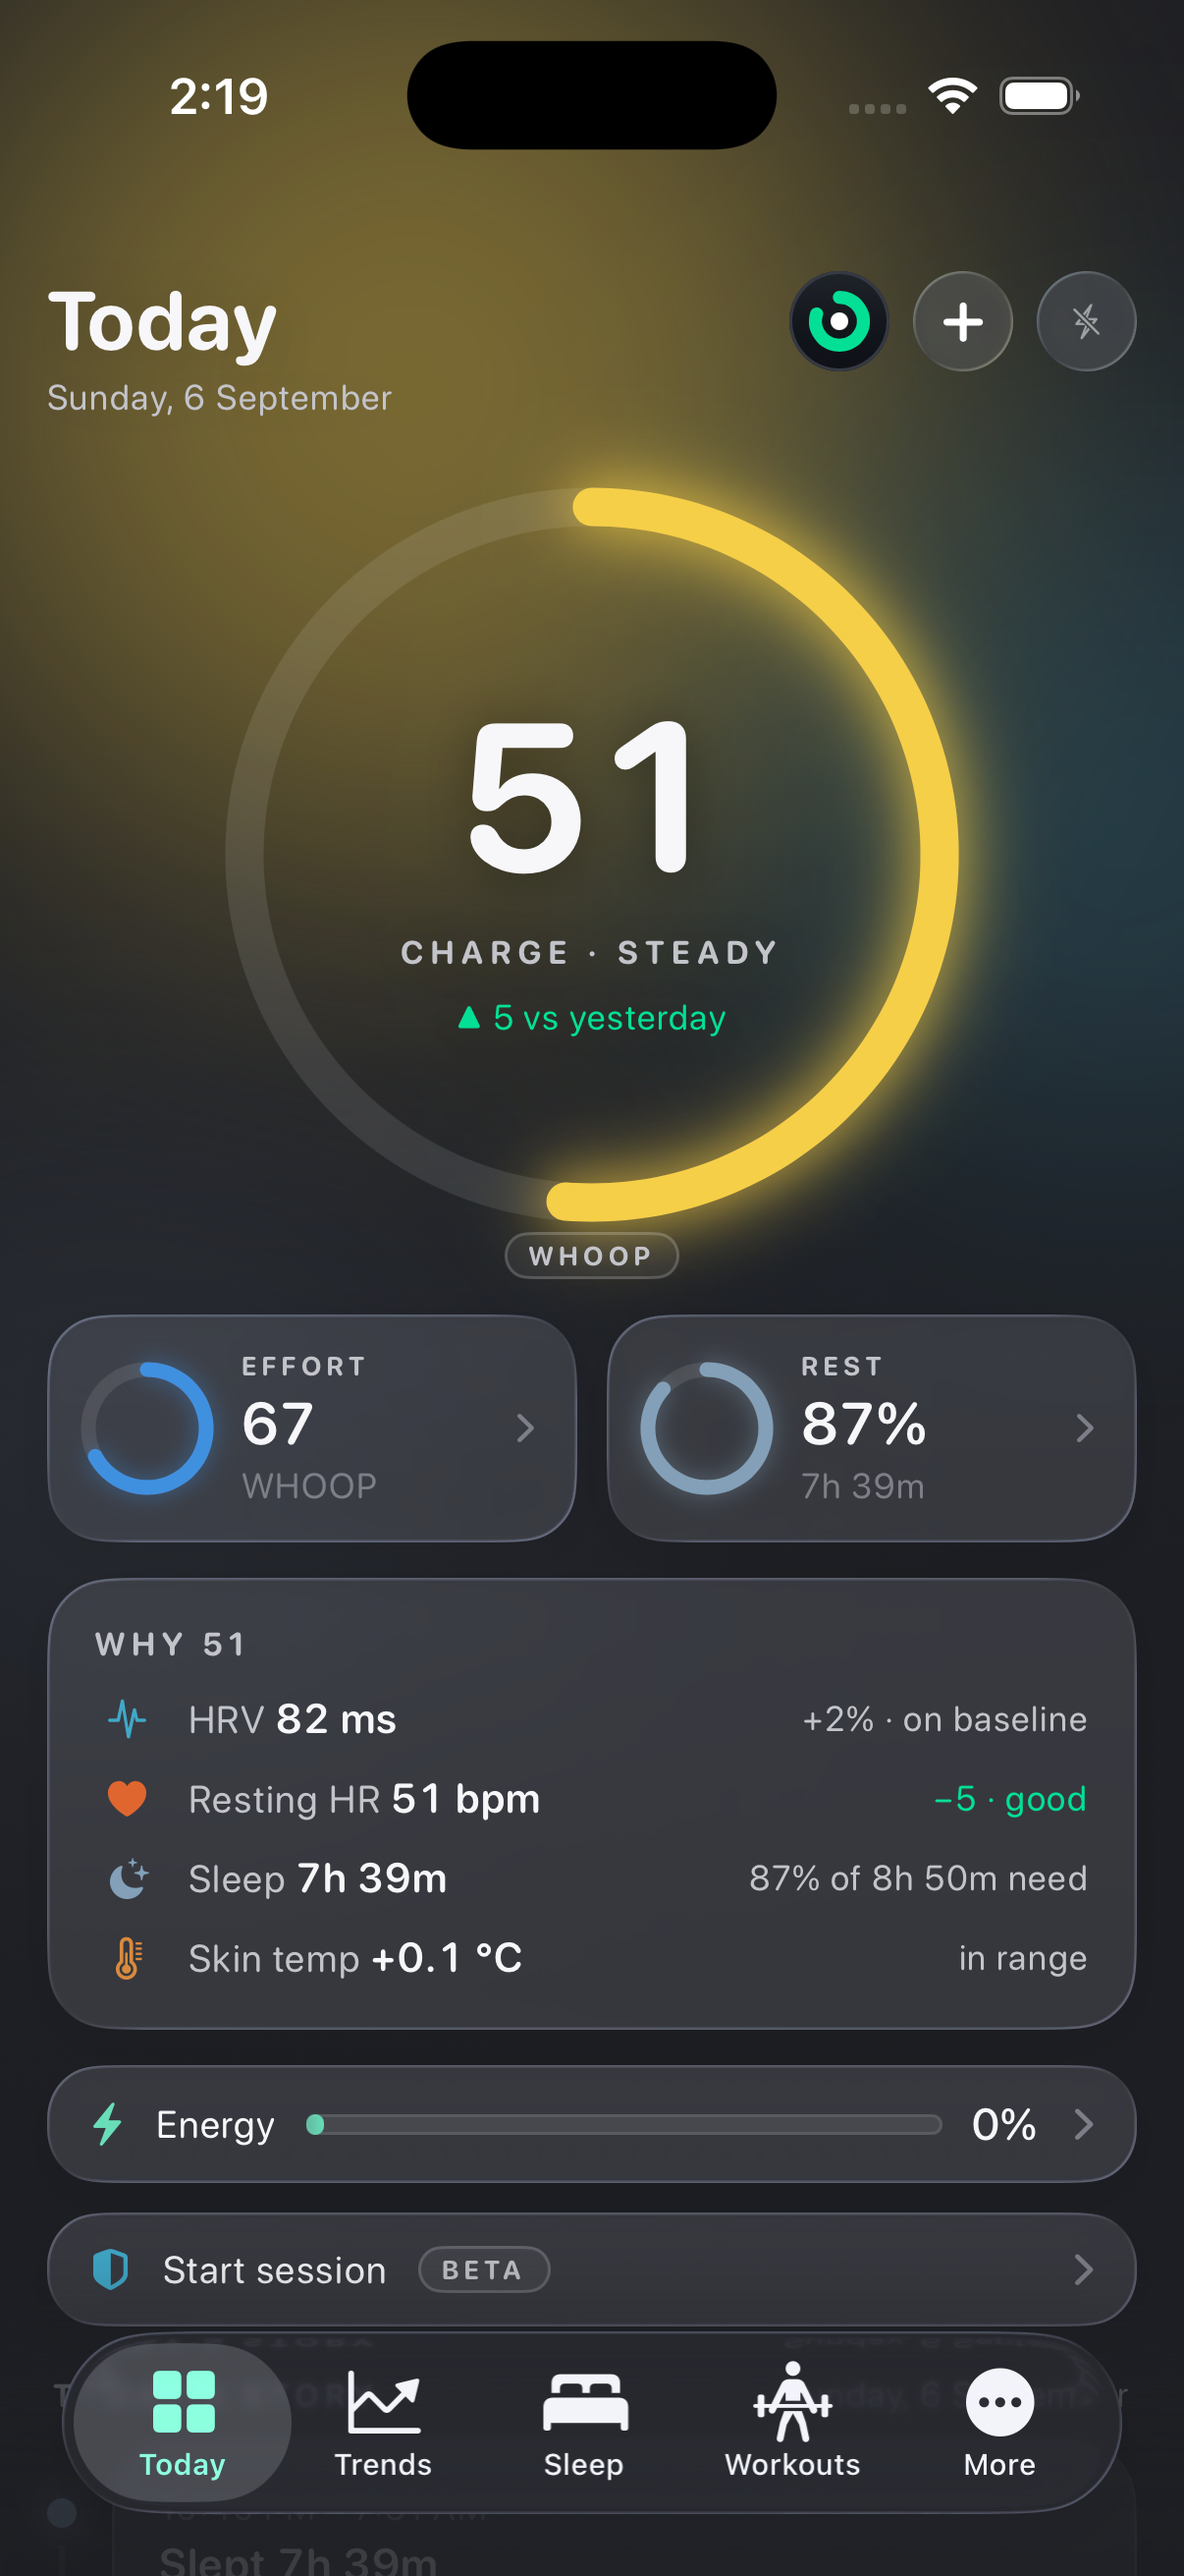
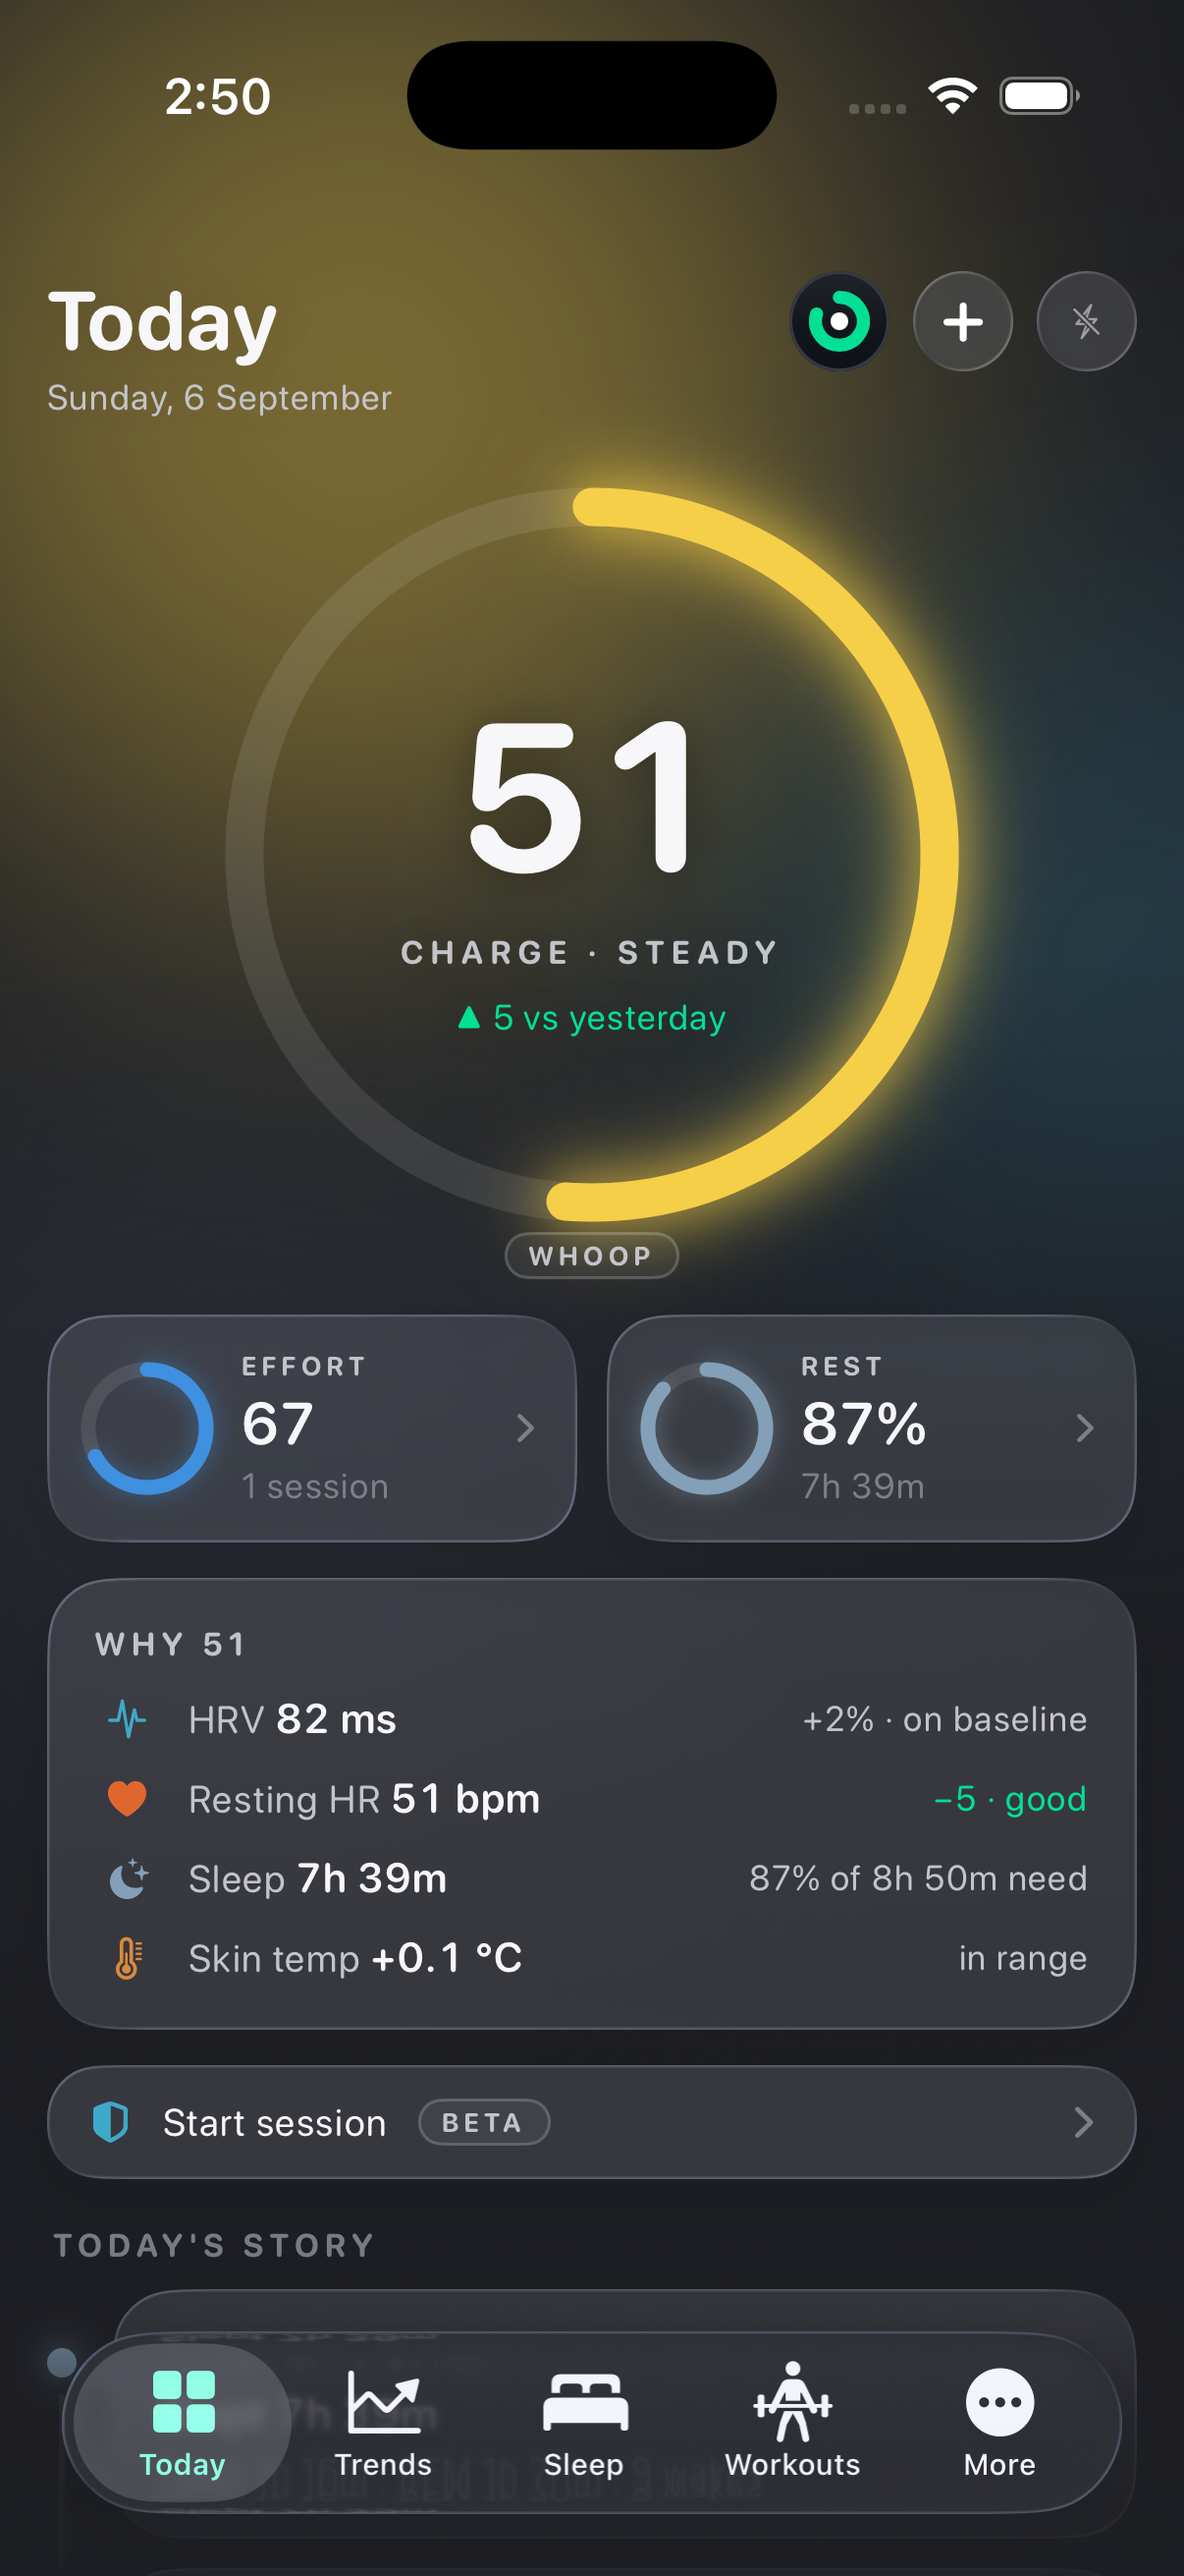
Halo v2 screenshots

diff --git a/halo-build/index.html b/halo-build/index.html
@@ -3,8 +3,8 @@
 <h1>Halo Today — real build, simulator, demo data</h1>
 <p>Debug build of the Kineva iOS app on the iPhone 17 Pro simulator, launched with <code>--demo-seed</code> (the app's own deterministic 120-day synthetic dataset). Same Repository accessors as the shipping Today; only the composition changed. Dark mode, plus one light-mode frame from the first pass.</p>
 <div class="grid">
-<figure><img src="1-top.png"><figcaption>Top: halo ring, Effort + Rest, Why card, Energy, Start session</figcaption></figure>
-<figure><img src="2-story.png"><figcaption>Today's story: last night, this morning's walk, live heart rate</figcaption></figure>
-<figure><img src="3-bottom.png"><figcaption>Below: your cards, key metrics, data sources (unchanged)</figcaption></figure>
+<figure><img src="1-top.png"><figcaption>Top: halo ring, Effort + Rest, Why card, Start session</figcaption></figure>
+<figure><img src="2-story.png"><figcaption>Today's story: last night, the walk, then Now (live HR, Energy, steps)</figcaption></figure>
+<figure><img src="3-bottom.png"><figcaption>Below: your cards and the All metrics link. Nothing else.</figcaption></figure>
 <figure><img src="4-light-mode-first-pass.png"><figcaption>Light mode (first pass, before the title-contrast fix)</figcaption></figure>
 </div><p style="margin-top:32px"><a href="../" style="color:#69ddb8">← Back to the six concepts</a></p></body></html>
